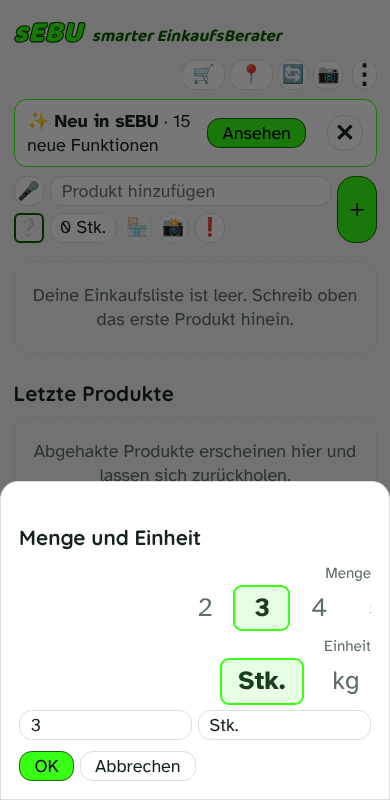
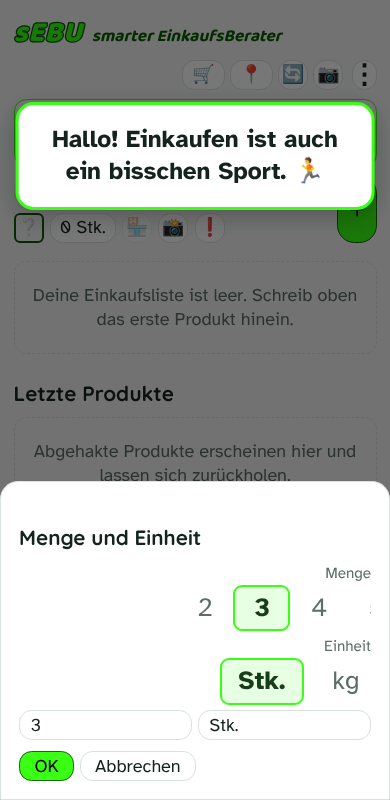
Begrüssung: 3 s gross, witzig je Tageszeit, keine Wiederholung im Monat
Claude-Session: https://claude.ai/code/session_01D8YzSZq49mBYGwQ71jG7sa

Changed region(s): [[0.0308, 0.125, 0.9846, 0.2812]]

diff --git a/tests/t28.py b/tests/t28.py
@@ -1,0 +1,22 @@
+# Begrüssung: 3 s, Tageszeit, keine Wiederholung im Monat, Kurz/Aus
+from playwright.sync_api import sync_playwright
+import os
+errs=[]
+with sync_playwright() as p:
+    b=p.chromium.launch()
+    c=b.new_context(viewport={'width':390,'height':800});pg=c.new_page();pg.on('pageerror',lambda e:errs.append(str(e)))
+    pg.add_init_script("(function(){var D=Date,f=new D(2026,10,25,8,15);window.Date=function(a){return arguments.length?new (Function.prototype.bind.apply(D,[null].concat([].slice.call(arguments)))):new D(f.getTime()+(D.now()-window.__t0))};window.__t0=D.now();Date.now=function(){return f.getTime()+(D.now()-window.__t0)};Date.prototype=D.prototype;Date.UTC=D.UTC;Date.parse=D.parse})()")
+    pg.goto('file://'+os.getcwd()+'/index.html');pg.evaluate("localStorage.setItem('sebu.v1',JSON.stringify({ob:{done:true,name:'Rico'},set:{newsSeen:'n16'}}))");pg.reload();pg.wait_for_timeout(300)
+    g=pg.locator('#greet');print('shown',g.count(),pg.inner_text('#greet') if g.count() else '')
+    pg.wait_for_timeout(3700);print('gone after 3s',pg.locator('#greet').count()==0)
+    pg.evaluate("localStorage.setItem('sebu.v1',JSON.stringify(Object.assign(JSON.parse(localStorage.getItem('sebu.v1')),{set:Object.assign(JSON.parse(localStorage.getItem('sebu.v1')).set,{greet:'short'})})))");pg.reload();pg.wait_for_timeout(300)
+    print('short',pg.inner_text('#greet'))
+    pg.click('#greet');print('tap closes',pg.locator('#greet').count()==0)
+    pg.evaluate("localStorage.setItem('sebu.v1',JSON.stringify(Object.assign(JSON.parse(localStorage.getItem('sebu.v1')),{set:Object.assign(JSON.parse(localStorage.getItem('sebu.v1')).set,{greet:'off'})})))");pg.reload();pg.wait_for_timeout(300)
+    print('off',pg.locator('#greet').count()==0)
+    pg.screenshot(path='/tmp/claude-0/shots/s28b.png')
+    c.close();b.close()
+s=open('index.html').read();import re
+for k in 'mtan':
+    m=re.search(k+r":\[('(?:[^'\\]|\\.)*'(?:,'(?:[^'\\]|\\.)*')*)\]",s[s.index('var GREET='):]);l=re.findall(r"'((?:[^'\\]|\\.)*)'",m.group(1));print(k,len(l),'unique',len(set(l))==31,'no ß',all('ß' not in x for x in l))
+print(errs)

diff --git a/CLAUDE.md b/CLAUDE.md
@@ -20,7 +20,7 @@ Besitzer: Rico Schubiger (GitHub `Schubiger-Rico`), Schweiz, Deutsch. Er arbeite
 - `manifest.json`, `sw.js`, `icon-180.png` – PWA. `sw.js` lädt eigene Dateien immer frisch (no-cache), offline aus dem Speicher. Das Symbol ist neon-grünes «sEBU» auf dunklem Grund (apple-touch-icon).
 - `antwort.html` – kleine, nicht verlinkte Antwort-Seite für den Brief an Händler (`?an=Migros`): Ja/Nein je Zeile, Bemerkungen, «Antwort senden» öffnet eine E-Mail (mailto) mit Zusammenfassung an Rico; speichert nichts, `noindex`, Adresse im Code zusammengesetzt.
 - `docs/ENTSCHEIDUNGEN.md` – alle Entscheide, Wünsche, offene Punkte (ausführlich, zuerst lesen!). `ROADMAP.md` – ältere Roadmap.
-- `tests/t*.py` – Playwright-Tests (Python). Aufruf im Repo-Hauptordner: `python3 tests/t.py` (sie öffnen `index.html` per file:// aus dem aktuellen Ordner; Chromium + playwright sind vorinstalliert). Jeder Test endet mit `[]` = keine JS-Fehler. t.py allgemein+Tour, t2 Teilen (zwei Handys, Firebase gemockt), t3 Ladentypen/Overpass gemockt, t4 Läden/Ketten/eigene Läden, t5 Aktionen-Modi, t6 App-Tour, t7 Einstellungs-Tour, t8 «← Liste»/«Immer», t9 Einkaufsende «Noch offen», t10 «Welcher Laden?», t11 Ansicht Einfach/Umfänglich/Manuell, t12 Test-Hinweise «🚧», t13 Rückgängig/Sicherung/Strichcode (Firebase und Open Food Facts gemockt), t14 Notfall/dringend, t15 Symbole/Auto-Symbol/Kategorie-Farben, t16 Kopfzeile/Sprache (gemockt)/Öle, t17 Nur Symbole/Erklärung beim Gedrückthalten/Schriftgrösse, t18 Sprach-Parser (gemockt), t19 Kategorien/Auto-Kategorie/Kategorie-Auswahl, t20 Drehräder/Klick (gemockt), t21 Antwort-Seite, t22 Erinnerung andere Läden/Neu in sEBU, t23 Produktfoto, t24 Heute nicht/Erinnerung nach Einkauf/Standort eigene Läden/Preise, t25 Neuer Laden hier/Standort-Erklärung/Hilfe, t26 Mehrere Einkaufslisten, t27 Schnellstart-Knopf.
+- `tests/t*.py` – Playwright-Tests (Python). Aufruf im Repo-Hauptordner: `python3 tests/t.py` (sie öffnen `index.html` per file:// aus dem aktuellen Ordner; Chromium + playwright sind vorinstalliert). Jeder Test endet mit `[]` = keine JS-Fehler. t.py allgemein+Tour, t2 Teilen (zwei Handys, Firebase gemockt), t3 Ladentypen/Overpass gemockt, t4 Läden/Ketten/eigene Läden, t5 Aktionen-Modi, t6 App-Tour, t7 Einstellungs-Tour, t8 «← Liste»/«Immer», t9 Einkaufsende «Noch offen», t10 «Welcher Laden?», t11 Ansicht Einfach/Umfänglich/Manuell, t12 Test-Hinweise «🚧», t13 Rückgängig/Sicherung/Strichcode (Firebase und Open Food Facts gemockt), t14 Notfall/dringend, t15 Symbole/Auto-Symbol/Kategorie-Farben, t16 Kopfzeile/Sprache (gemockt)/Öle, t17 Nur Symbole/Erklärung beim Gedrückthalten/Schriftgrösse, t18 Sprach-Parser (gemockt), t19 Kategorien/Auto-Kategorie/Kategorie-Auswahl, t20 Drehräder/Klick (gemockt), t21 Antwort-Seite, t22 Erinnerung andere Läden/Neu in sEBU, t23 Produktfoto, t24 Heute nicht/Erinnerung nach Einkauf/Standort eigene Läden/Preise, t25 Neuer Laden hier/Standort-Erklärung/Hilfe, t26 Mehrere Einkaufslisten, t27 Schnellstart-Knopf, t28 Begrüssung.
 - Falls `playwright` fehlt: `pip install playwright`, dann Chromium-Pfad `/opt/pw-browsers/chromium` als `executable_path` übergeben (nicht `playwright install`).
 - Syntaxprüfung: letztes `<script>` extrahieren und `node --check`.
 - Alte Dateien im Repo (`SmartShop_V5.html`, `SEBU-*.zip`, `sw.js.txt`) sind überflüssig und dürfen gelöscht werden.
@@ -32,7 +32,7 @@ Besitzer: Rico Schubiger (GitHub `Schubiger-Rico`), Schweiz, Deutsch. Er arbeite
 - Ansicht der Liste: `S.set.view` (simple/full/manual) und `S.set.show` (cat, catcol, photo, price, fav, urg, shop, bar, voice, cam, scan, nav, remind, recent); 🔥 = `S.set.dm`, Kategorien-Zeile = `S.set.cats`. Hilfsfunktionen `on(k)`, `setOn`, `setView`, `viewBlock()` (Einstellungen-Sparte «Einkaufsliste» und Begrüssung nach der Schriftgrösse). Tour-Schritte zu ausgeblendeten Elementen werden übersprungen (`NEED`).
 - Während eines Einkaufs (`S.shop`) keine Laden-Vorschläge (🔄 manuell geht). Einkaufsende zeigt «Noch offen» (Heute noch merken / Später / 🔔 Erinnerung beim Wegfahren per Teilen-Text / 🧭 Navigation = Google-Maps-Link `mapBtn()`). Erinnerung optional über iPhone-Kurzbefehl (`S.set.remSc`, `S.set.scName`, URL `shortcuts://run-shortcut`).
 - Aktionen (🔥): Modi automatisch / manuell / immer / aus. Hinweis oben und 🔥-Farbe nur für echte (nicht Beispiel-)Aktionen (`realDeals`), bei jedem Öffnen, ✕ blendet bis zum nächsten Öffnen aus (`dealHid`). Unter «Aktionen» Händler-Links (`DLINK` direkte Adressen für alle 9: Migros, Coop, Denner, Aldi, Lidl, Volg, Spar, Aligro (Prospekte), Otto's; Rückfall Google-Suche, `#dlinks`). Teilen über Firebase RTDB (optional). KI-Ratgeber über Anthropic-API (optional, Schlüssel nur lokal beim Nutzer).
-- Menü: ⋮ (drei fette Punkte, `#hamb`) rechts auf der Anrede-Zeile «Hallo …» (`hrow` unter dem Titel); die 4 Kopf-Knöpfe kommen per `barUp()` in diese Zeile, wenn Platz ist. Läden steht in der Hauptnavigation (wie Favoriten). Titel «sEBU», Untertitel «smarter EinkaufsBerater» (kleines s, grosses B, etwas grösser als früher), Schrift Baloo 2 kursiv, Neon-Grün `#39FF14` mit dunkelgrünem Rand `#0a5c00`. Slogan: «Alles kann, nichts muss.» (in Neon-Grün wie der Titel)
+- Menü: ⋮ (drei fette Punkte, `#hamb`) rechts auf der Zeile unter dem Titel (`hrow`; «Hallo …» steht dort nicht mehr); die 4 Kopf-Knöpfe kommen per `barUp()` in diese Zeile, wenn Platz ist. Läden steht in der Hauptnavigation (wie Favoriten). Titel «sEBU», Untertitel «smarter EinkaufsBerater» (kleines s, grosses B, etwas grösser als früher), Schrift Baloo 2 kursiv, Neon-Grün `#39FF14` mit dunkelgrünem Rand `#0a5c00`. Slogan: «Alles kann, nichts muss.» (in Neon-Grün wie der Titel)
 - Test-Hinweise: gelbes «🚧 TEST: Ist noch in Arbeit» (Sprüche `WIPQ`) in Ideen, Anlässe, Stammartikel, Premium-KI, Abo, Sprache; bei Aktionen «Hier könnten Ihre Aktionen stehen!» (`DEALQ`). Abschaltbar: Darstellung → «Test-Hinweise anzeigen» (`S.set.testBan`).
 - Notfall: `item.urg` (❗ bei der Eingabe `draft.urg`, im Bearbeiten, rotes ❗ auf der Karte entfernt es). Dringendes immer zuoberst (`sortedItems`), in jedem Laden sichtbar, rot umrandet und grösser; Einkaufsende-Hinweis «Dringend noch offen» (`urgEnd`).
 - Kategorien: `STD` 19 Hauptkategorien (m0–m18; m4 heisst «Vorräte», neu m14 Internationale Küche, m15 Bio/Vegi/Vegan, m16 Fertiggerichte, m17 Non-Food, m18 Frühstück; m4s7/m4s8 stillgelegt = 3. Feld 1 → versteckt, Inhalte einmalig nach m18 verschoben, `S.set.migFr`), Unterkategorien nur **hinten anfügen** (IDs `m<i>s<j>` nach Position!). `addStdCats()` ergänzt fehlende Standard-Kategorien bei bestehenden Nutzern (vor «Übrige»). Auto-Kategorie `detectKw`: Stichwort, das am **weitesten hinten** im Namen endet, gewinnt (Grundwort), bei Gleichstand das spätere/längere; dann Einzahl/Mehrzahl-Varianten, dann Symbol-Gruppe (`ICAT`). Strichcode: Kategorie aus Open Food Facts (`offCat`). Liste innerhalb einer Unterkategorie alphabetisch. Gedrückthalten aufs Produkt-Symbol zeigt «gehört zu Haupt › Unter» (`catPath`). Auswahl-Sheet `shCat`: Suche `catQ`, Hauptkategorien mit ▸ aufklappbar (`catOpen`).
@@ -51,6 +51,7 @@ Besitzer: Rico Schubiger (GitHub `Schubiger-Rico`), Schweiz, Deutsch. Er arbeite
 - Drehräder Menge/Einheit (`shQty`, `wheelInit`): **waagrecht** (Klasse `.hz`, Helfer `wHz/wIdx/wSet`), Händigkeit `S.set.hand` right (Standard, Räder ganz rechts 62 %, Daumen wischt von rechts nach links)/left/both; Grösse `--wo`, Breite `--ww`, gewählte Zahl `.on`, `scroll-snap-stop:always`. Pro Schritt `tick()`: kurzer Web-Audio-Klick (iPhone + Android) und auf Android `navigator.vibrate(8)`; Einstellung `S.set.tick` (Favoriten und Letzte Produkte), «Lautlos» unterdrückt. iPhone-Stummschalter macht den Klick stumm.
 - Mehrere Einkaufslisten: `S.lists` [{id,name,store?}], Standard `L0` «Allgemein», aktuelle `S.curList` (`curL()`), Produkt `item.list` (fehlt = L0, `listOf`). Leiste `#lbar` (`listBar`) über der Eingabe nur bei ≥2 Listen; Neues kommt in die gewählte Liste; Dringendes ❗ in jeder Liste. Einstellungen-Sparte «Einkaufslisten» (`lists`, `listsBlock`: Name, Laden, ✕ → Produkte nach Allgemein). Mit Laden: `setCur` öffnet die Liste automatisch (`S.set.listAuto`, `listAutoOn`), nach `shopEnd` zurück zu Allgemein. Die Zuordnung pro Produkt zu Läden bleibt zusätzlich bestehen.
 - Schnellstart-Knopf: `S.set.quick` (leer = aus, Standard; sonst Bereich aus `NAV`/`MORE`), Knopf `.qkb` (`quickBtn`, `data-a=quick`) in der Kopfzeile vor 🛒, Auswahl unter Einstellungen → Einkaufsliste.
+- Begrüssung: beim Öffnen und Zurückkehren 3 s gross (`greetShow`, Overlay `#greet`, Antippen schliesst), Tageszeit `greetSlot` (Morgen 5–11, Tag 11–17, Abend 17–22, Nacht), `GREET` je 31 Sprüche, Auswahl nach Tag im Monat → keine Wiederholung im Monat; `S.set.greet` fun (Standard)/short/off unter Darstellung.
 - Zeilenhöhe: `S.set.rows` compact (Standard) / normal, Klasse `html.compact` in `applyLook()`.
 - Rückgängig: `delItem()` + `undo` (4 s, Leiste unten). Wischen und «Löschen» nutzen es.
 - Sicherung: Zwischenkopien täglich in localStorage `sebu.bak` (letzte 5, `snap()`), optional täglich in eigene Firebase `/lists/bak-<bakCode>.json` als `{t,j}` (unter `lists`, damit die bestehenden Teilen-Regeln reichen) (JSON-String, ohne apiKey; `cloudBak()`); Holen per Code. Hilfsfunktion `fbSet()` (nicht mit `fbOk()` vom Teilen verwechseln).

diff --git a/docs/ENTSCHEIDUNGEN.md b/docs/ENTSCHEIDUNGEN.md
@@ -793,3 +793,4 @@ Stand heute: 1 gebaut; 2 teilweise (Aktionen, aber ohne echte Datenquelle); 3 te
 - **Umgesetzt am 25.11.:** Schnellstart-Knopf (ein Knopf) vor dem Einkaufswagen 🛒; Bereich wählbar unter Einstellungen → Einkaufsliste → «Schnellstart-Knopf» (Standard Aus). In Führung, Hilfe und «Neu in sEBU» (n15). Begrüssung (kurz, gross, Tageszeit) noch offen.
 - Notiz 25.11.: Begrüssung darf witzig sein (sEBU soll Spass machen), passend zur Tageszeit. Dauer noch offen (Vorschlag 3 s).
 - Notiz 25.11.: Begrüssung 3 s beim Öffnen (bestätigt). Witzige Sprüche je Tageszeit, innerhalb eines Monats keine Wiederholung.
+- **Umgesetzt am 25.11.:** Begrüssung beim Öffnen 3 s gross, je Tageszeit 31 witzige Sprüche (pro Tag einer, kein Spruch doppelt im Monat), Antippen schliesst. Darstellung → «Begrüssung»: Witzig / Kurz / Aus. Das dauerhafte «Hallo Rico» ist weg, die Kopf-Knöpfe haben dort Platz. In Führung und «Neu in sEBU» (n16).
